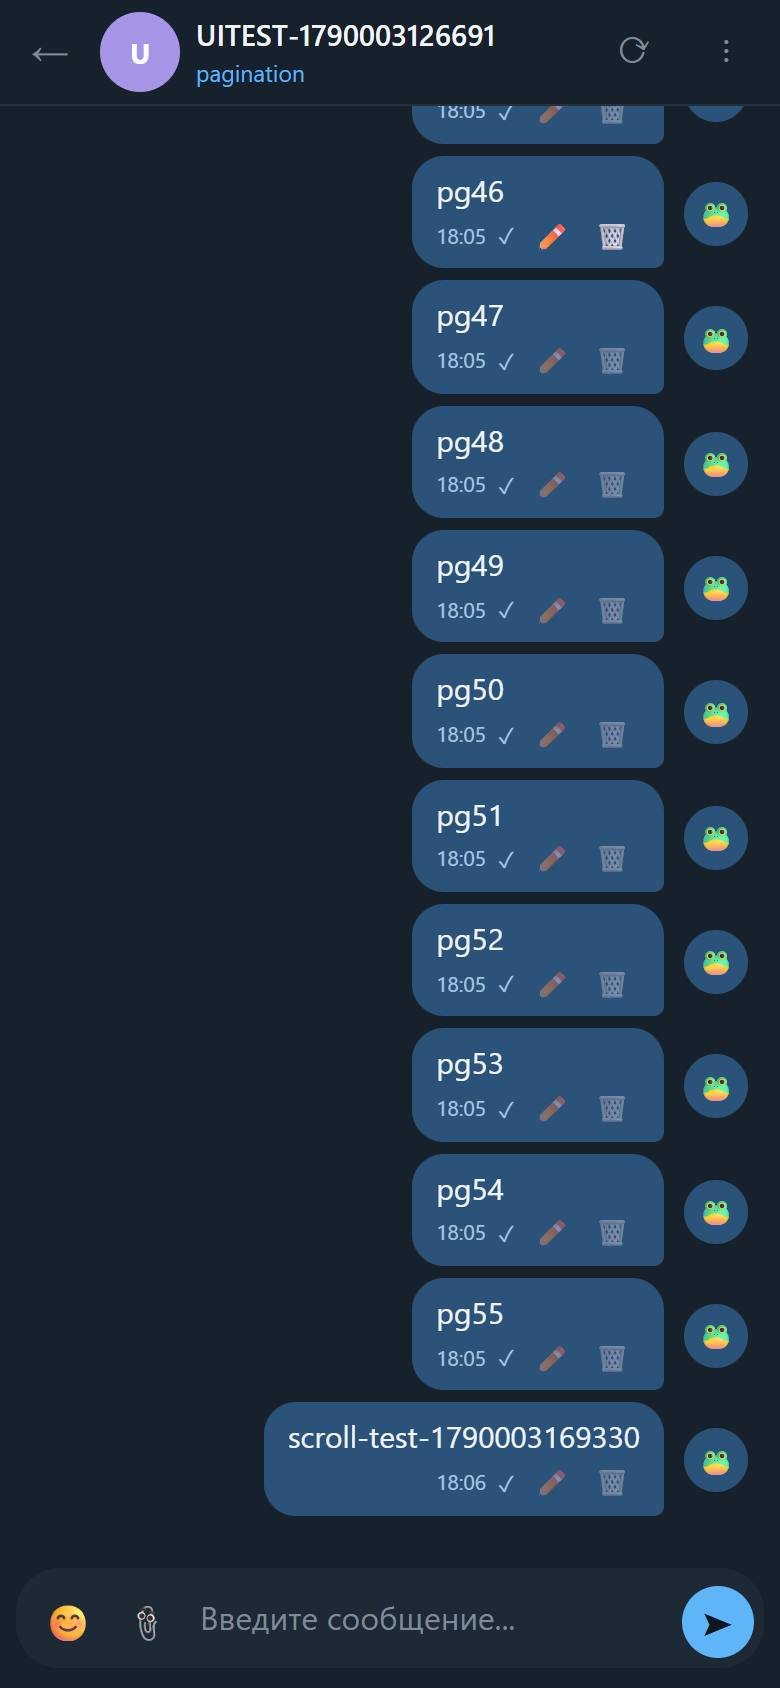
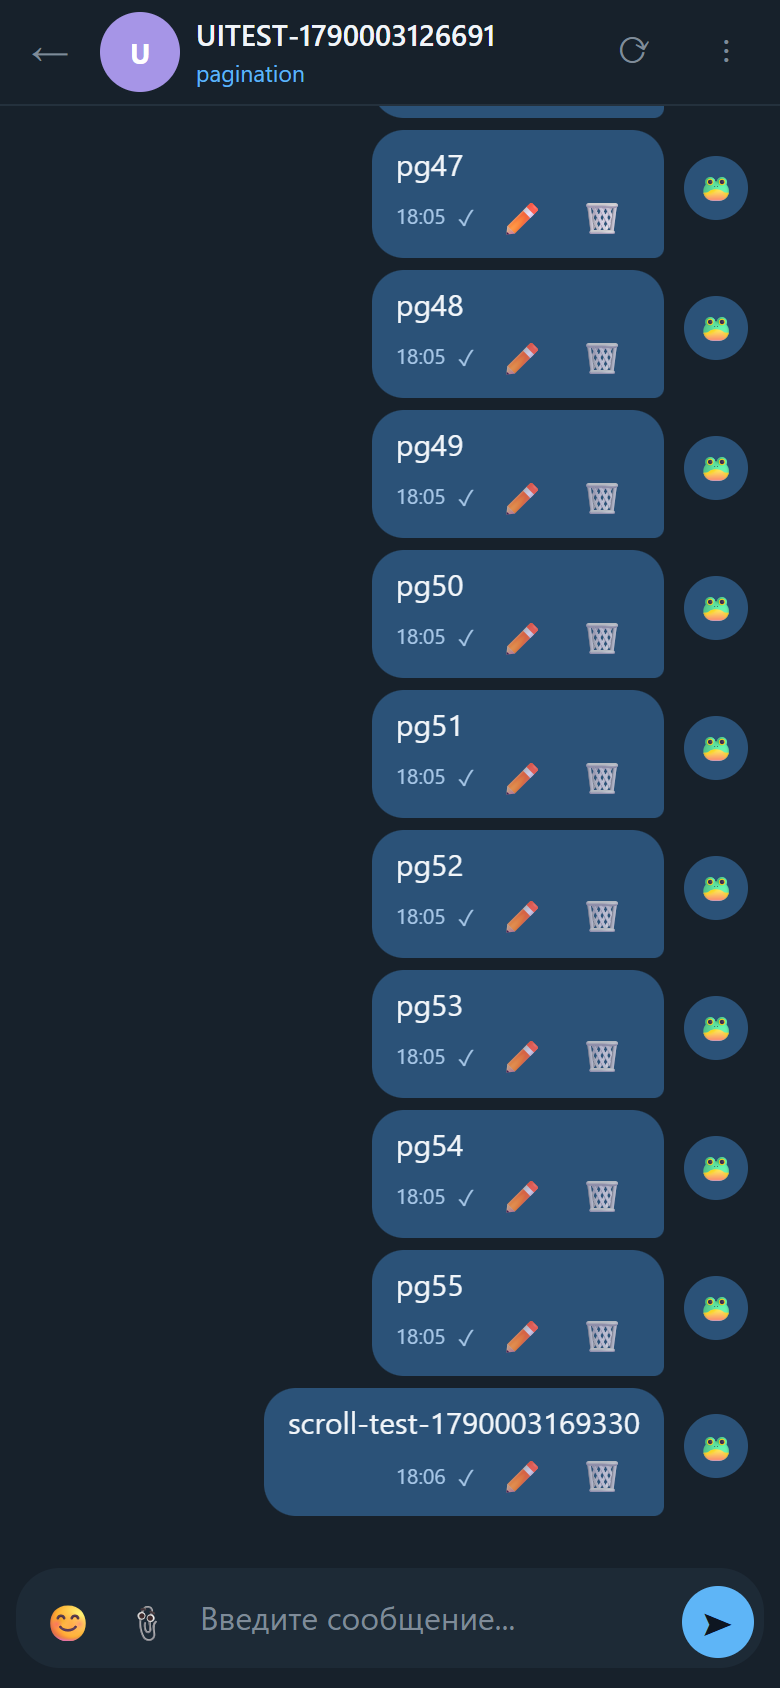
fix(ui): hide mobile-only buttons on desktop, in-app edit modal for iOS
- .only-mobile rule moved after .mini so display:none wins on desktop (chat sidebar was showing hamburger/DM/refresh/plus)
- replace native prompt() (unsupported in iOS captive portal browsers) with an in-app edit modal; overlays follow visual viewport
- bigger edit/delete tap targets on phones
- ui_test 70/70 (incl. desktop hidden-buttons check), mobile_chrome_check 26/26 (incl. edit modal open/save), scroll_check 19/19, admin_audit 62/62, spa_actions 20/20, RPi probe 31/31

Changed region(s): [[0.3385, 0.0616, 0.9846, 0.8934]]

diff --git a/server/app/static/app.css b/server/app/static/app.css
@@ -92,12 +92,12 @@ html:has(body.chat-mode){overflow:hidden}
 .chat-side{width:330px;flex:0 0 auto;background:var(--bg2);border-radius:14px;display:flex;flex-direction:column;min-height:0;overflow:hidden}
 .chat-side-head{padding:10px 12px 6px}
 .chat-top{display:block}
-.only-mobile{display:none}
 .chat-side-title{display:flex;align-items:center;justify-content:space-between;font-size:13px;font-weight:700;color:var(--text);padding:0 4px 9px}
 .mini{width:28px;height:28px;border-radius:50%;display:grid;place-items:center;color:var(--text2);font-size:15px;background:transparent;border:none;cursor:pointer;flex:0 0 auto;transition:.15s}
 .mini:hover{background:var(--hover);color:var(--text)}
 .chat-side-title .mini{width:28px;height:28px;border-radius:50%;display:grid;place-items:center;color:var(--text2);font-size:15px;background:transparent;border:none;cursor:pointer}
 .chat-side-title .mini:hover{background:var(--hover);color:var(--text)}
+.only-mobile{display:none}
 .chat-search{display:flex;align-items:center;gap:8px;background:var(--bg);border-radius:18px;padding:8px 12px;color:var(--text2);font-size:13px}
 .chat-search input{flex:1;background:none;border:0;outline:0;color:var(--text);font:inherit;min-width:0}
 .chat-list{flex:1;min-height:0;overflow-y:auto;padding:8px 6px 8px;overscroll-behavior:contain;-webkit-overflow-scrolling:touch}
@@ -282,7 +282,7 @@ html:has(body.chat-mode){overflow:hidden}
 .hidden{display:none!important}
 
 /* Overlay / Modal */
-.overlay{position:fixed;top:0;left:0;right:0;bottom:0;z-index:300;background:rgba(0,0,0,.6);display:flex;align-items:center;justify-content:center;padding:16px}
+.overlay{position:fixed;top:var(--app-top,0);left:0;right:0;height:var(--app-h,100vh);z-index:300;background:rgba(0,0,0,.6);display:flex;align-items:center;justify-content:center;padding:16px}
 .modal{background:var(--bg2);border:1px solid var(--border);border-radius:16px;padding:26px;width:90%;max-width:480px;box-shadow:var(--shadow);max-height:90vh;overflow-y:auto}
 .modal h3{margin-bottom:16px;font-size:18px}
 
@@ -393,6 +393,8 @@ html:has(body.chat-mode){overflow:hidden}
   .chat-top .mini-pill .mi-lbl{font-size:12.5px;font-weight:600;line-height:1}
   .chead{padding:6px 8px;gap:8px}
   .chead .t2{font-size:11.5px}
+  .msg-actions{opacity:.85}
+  .msg-actions button{font-size:16px;padding:4px 8px}
 
   /* chat: list and pane are separate screens (normal flex flow, no absolute) */
   .chat-layout{gap:0;display:flex;flex-direction:column;flex:1;min-height:0}

diff --git a/server/app/static/app.js b/server/app/static/app.js
@@ -2177,6 +2177,7 @@ var T = {
 "type_msg":{rus:"Введите сообщение...",eng:"Type a message..."},
 "new_chat":{rus:"Новый чат",eng:"New Chat"},"dm":{rus:"Личка",eng:"DM"},
 "menu":{rus:"Меню",eng:"Menu"},
+"edit_msg":{rus:"Редактировать сообщение",eng:"Edit message"},
 "no_chats":{rus:"Нет чатов",eng:"No chats"},
 "select_chat":{rus:"Выберите чат",eng:"Select a chat"},
 "search_user":{rus:"Поиск по логину...",eng:"Search by login..."},
@@ -2462,14 +2463,32 @@ async function editMsg(mid, btn) {
     var textEl = body ? body.querySelector('.msg-text') : null;
     current = textEl ? textEl.textContent.replace(/\s*\(edited\)\s*$/,'') : "";
   }
-  var newText = prompt("Edit message:", current);
-  if (newText === null) return;
-  newText = newText.trim();
-  if (!newText || newText === current) return;
-  try {
-    await api("/chat/api/chats/" + currentChatId + "/messages/" + mid, {method:"PUT", body:JSON.stringify({session_token:STATE.token, body_text:newText})});
-    doLoadMessages({force:true});
-  } catch(e) { toast(e.message, "error"); }
+  // native prompt() does not work in iOS captive portal / in-app browsers
+  var overlay = document.createElement('div');
+  overlay.className = 'overlay';
+  overlay.innerHTML = `<div class="modal edit-modal">
+    <h3>${t('edit_msg')}</h3>
+    <textarea class="form-input" id="edit-text" rows="4"></textarea>
+    <div class="confirm-actions">
+      <button class="btn btn-primary" id="edit-save">${t('save')}</button>
+      <button class="btn btn-outline" id="edit-cancel">${t('cancel')}</button>
+    </div>
+  </div>`;
+  document.body.appendChild(overlay);
+  var ta = overlay.querySelector('#edit-text');
+  ta.value = current;
+  var close = function() { overlay.remove(); };
+  overlay.querySelector('#edit-cancel').onclick = close;
+  overlay.querySelector('#edit-save').onclick = async function() {
+    var newText = ta.value.trim();
+    if (!newText || newText === current) { close(); return; }
+    try {
+      await api("/chat/api/chats/" + currentChatId + "/messages/" + mid, {method:"PUT", body:JSON.stringify({session_token:STATE.token, body_text:newText})});
+      close();
+      doLoadMessages({force:true});
+    } catch(e) { toast(e.message, "error"); }
+  };
+  setTimeout(function(){ ta.focus(); }, 60);
 }
 
 function confirmDel(mid) {

diff --git a/server/app/templates/index.html b/server/app/templates/index.html
@@ -5,7 +5,7 @@
 <meta name="viewport" content="width=device-width,initial-scale=1.0,maximum-scale=1.0,user-scalable=no">
 <meta name="theme-color" content="#0e1621">
 <title>Local Chat</title>
-<link rel="stylesheet" href="/static/app.css?v=1789902400">
+<link rel="stylesheet" href="/static/app.css?v=1789902500">
 </head>
 <body>
 <div id="static-login" class="auth-wrap">
@@ -59,7 +59,7 @@
   </noscript>
 </main>
 
-<script src="/static/app.js?v=1789902400"></script>
+<script src="/static/app.js?v=1789902500"></script>
 
 <script>
 var _st = localStorage.getItem("lc_session_token");

diff --git a/FIXES_REPORT_2026-09-20.md b/FIXES_REPORT_2026-09-20.md
@@ -223,3 +223,10 @@
 - **Фикс**: приложение теперь приклеено к реальной видимой области: `--app-h` = `visualViewport.height`, `--app-top` = `visualViewport.offsetTop` (обновляются на `resize` и `scroll` visualViewport, а также на поворот экрана). `body.chat-mode` следует за этими переменными (`top:var(--app-top)` + `height:var(--app-h)`), поэтому при клавиатуре чат сжимается ровно до видимой части, а поле ввода и последние сообщения остаются на экране.
 - Дополнительно: при фокусе на поле ввода лента сообщений прокручивается к последнему сообщению (как в нативных мессенджерах).
 - **Проверено**: в сьюте `mobile_chrome_check` (24/24) — эмуляция видимой области (420px со смещением 100px): приложение сжимается и смещается вместе с ней, после «закрытия клавиатуры» возвращается обратно. ui_test 69/69, scroll_check 19/19, admin_audit 62/62, spa_actions 20/20, RPi-пробник 31/31. Версия `v=1789902400`.
+
+## Дополнение 18: мобильные кнопки в десктопной шапке и редактирование на iPhone
+
+- **Десктоп, «сломанная шапка»**: в списке чатов на компьютере показывались мобильные кнопки (☰ ✉ Личка ↻ ＋) — правило скрытия `.only-mobile{display:none}` перебивалось более поздним `.mini{display:grid}` (одинаковая специфичность, порядок в файле). Раньше это было незаметно (кнопки были прозрачные и тусклые), после придания им подложки стало бросаться в глаза. Исправлено порядком правил; добавлена проверка в ui_test: на десктопе все `only-mobile` кнопки скрыты.
+- **Редактирование сообщений на iPhone не работало**: использовался системный `prompt()`, а он не поддерживается в окне captive portal / встроенных браузерах iOS (молча возвращает null). Заменён на собственное модальное окно (текстовое поле + «Сохранить»/«Отмена») — работает везде, в т.ч. в портальном окне. Модалки (`overlay`) теперь тоже следуют за видимой областью, чтобы не уезжать при клавиатуре.
+- Кнопки правки/удаления на телефоне увеличены (было 28×20 — тяжело попасть, стало ~38×27) и сделаны заметнее.
+- **Проверено**: mobile_chrome_check 26/26 (включая «модалка правки открывается» и «правка сохраняется»), ui_test 70/70 (+ скрытие мобильных кнопок на десктопе), scroll_check 19/19, admin_audit 62/62, spa_actions 20/20, RPi-пробник 31/31 (правка через новое окно на живом сервере). Версия `v=1789902500`.
